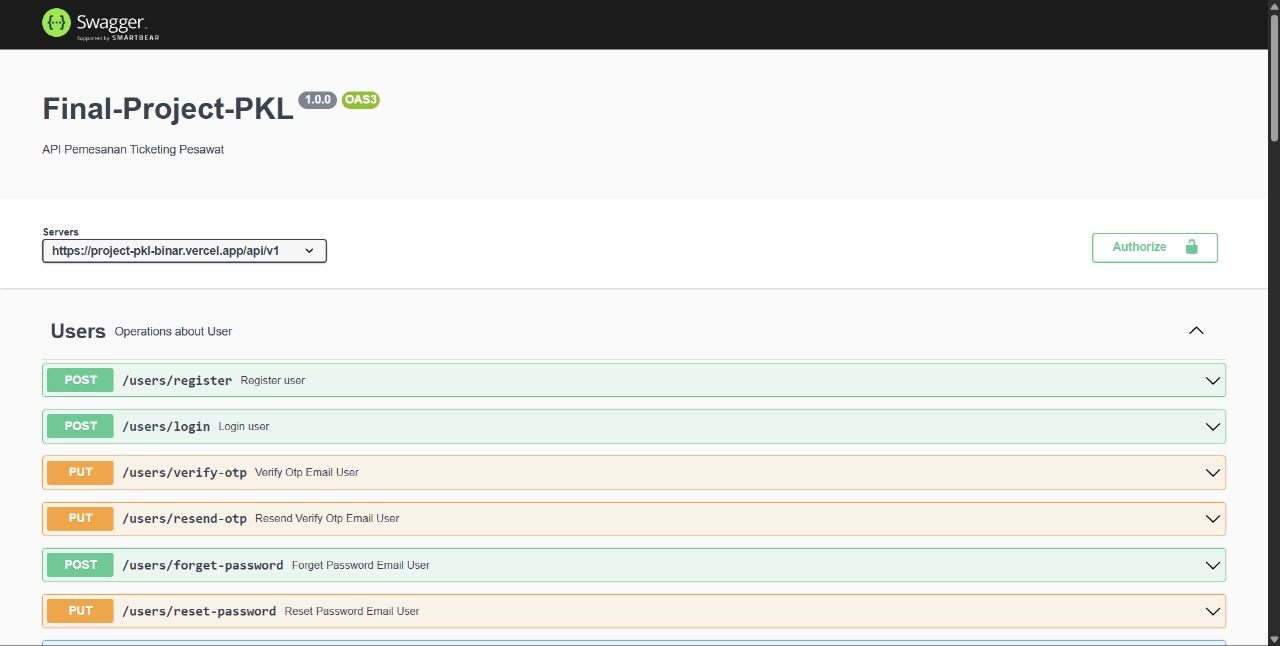
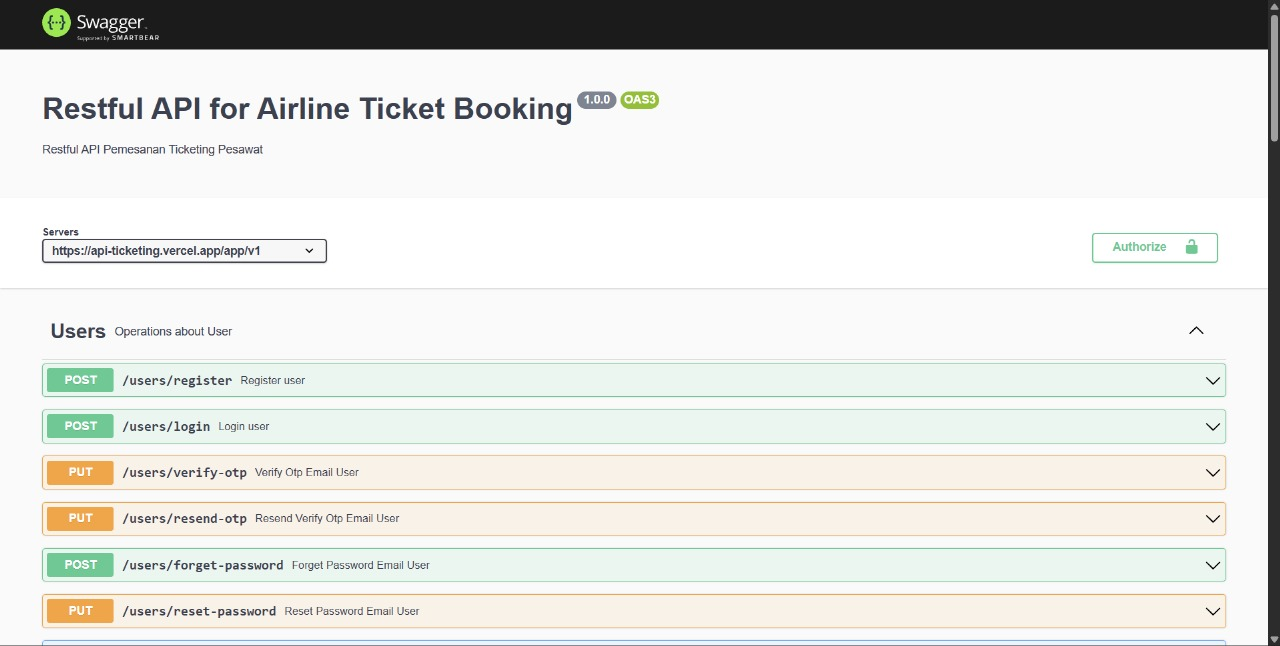
Animation

Changed region(s): [[0.0312, 0.1238, 0.5312, 0.1858], [0.0312, 0.2167, 0.2188, 0.2477], [0.0625, 0.3715, 0.2188, 0.4025]]

diff --git a/src/assets/components/portofolio/ProjectContent.jsx b/src/assets/components/portofolio/ProjectContent.jsx
@@ -15,7 +15,7 @@ const portfolioItems = [
     title: "Restful API for Airline Ticket Booking",
     desc: "Pembuatan Restful API untuk simulasi pemesanan tiket pesawat. Fitur termasuk otentikasi JWT, validasi data, dan integrasi database. Dibangun dengan Node.js, Express, dan PostgreSQL.",
     category: "Backend Javascript",
-    projectUrl: "https://project-pkl-binar.vercel.app/api-docs",
+    projectUrl: "https://api-ticketing.vercel.app/api-docs",
     thumbnailUrl: "/images/Restful API for Airline Ticket Booking.jpg",
   },
   {
@@ -44,7 +44,7 @@ const portfolioItems = [
   },
   {
     id: 6,
-    title: "Rental Binar Car",
+    title: "Landing Pages Rental Car",
     desc: "Implementasi desain UI/UX kedalam website dengan berfokus menampilkan informasi penyewaan mobil. Diimplementasikan dengan HTML dan CSS Murni.",
     category: "Frontend Javascript",
     projectUrl: "https://bagusdpa4.github.io/challenge-01/",

diff --git a/src/assets/components/portofolio/ArticleContent.jsx b/src/assets/components/portofolio/ArticleContent.jsx
@@ -55,7 +55,7 @@ export const ArticleContent = () => {
                 <img
                   src={item.thumbnailUrl}
                   alt={`Thumbnail ${item.title}`}
-                  className="h-full w-full object-cover"
+                  className="h-full w-full object-cover transition duration-500 hover:scale-110"
                 />
               ) : (
                 <div className="absolute inset-0 flex items-center justify-center bg-indigo-900/40 text-indigo-400">

diff --git a/src/assets/components/portofolio/CertificateContent.jsx b/src/assets/components/portofolio/CertificateContent.jsx
@@ -58,7 +58,7 @@ export const CertificateContent = () => {
                 <img
                   src={item.thumbnailUrl}
                   alt={`Thumbnail ${item.title}`}
-                  className="h-full w-full object-cover"
+                  className="h-full w-full object-cover transition duration-500 hover:scale-110"
                 />
               ) : (
                 // Fallback jika thumbnailUrl tidak ada
